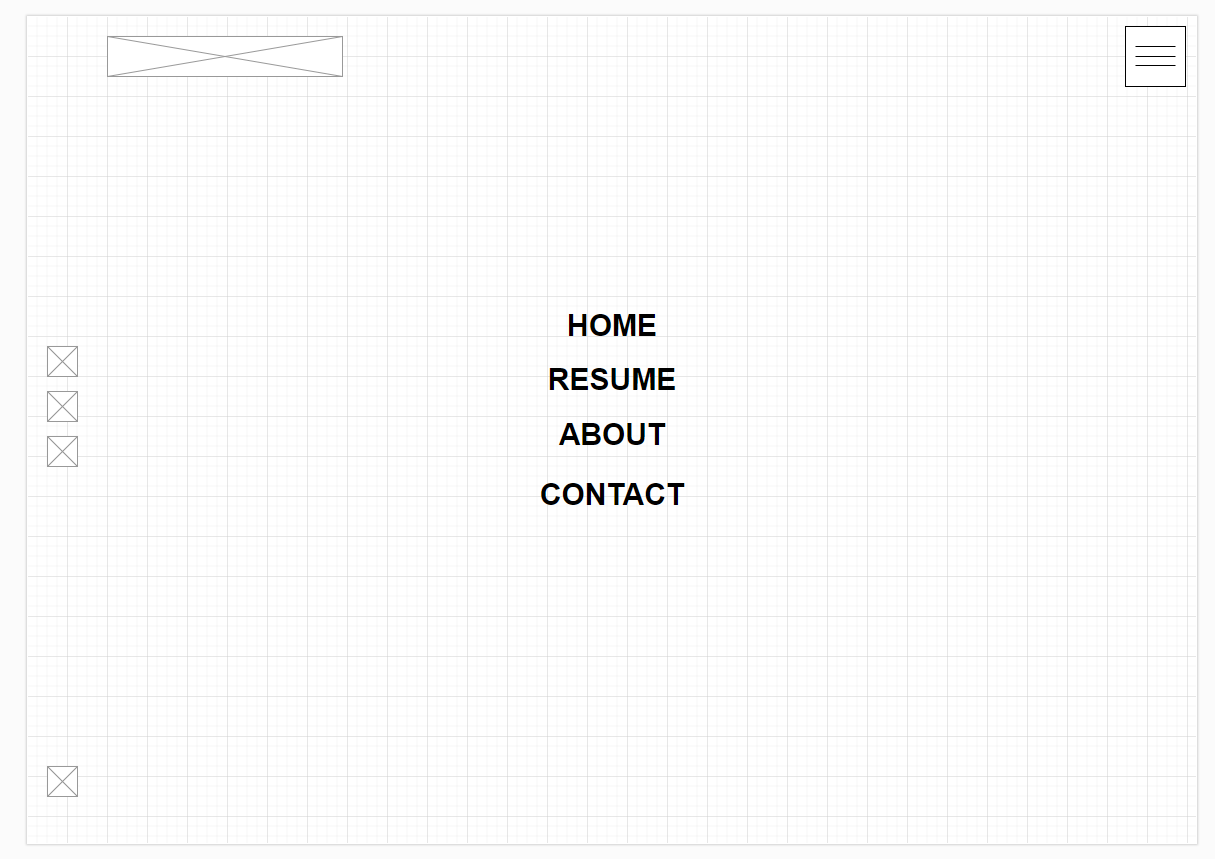
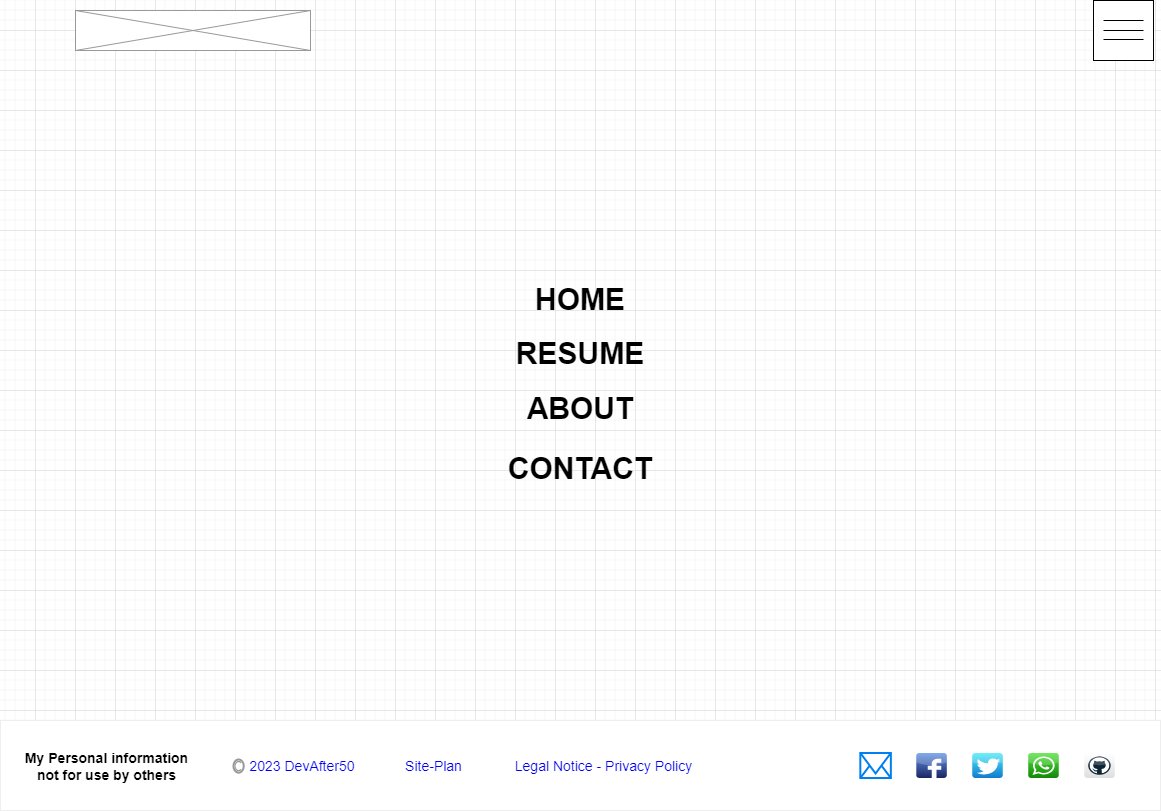
updated wireflrames

diff --git a/portfolio/site_plan.html b/portfolio/site_plan.html
@@ -321,29 +321,35 @@ Feel free to reach out via email at my9ija@gmail.com or give me a call at +23490
         Wireframes
       </h2>
       <p>
-        Created four wireframes for my site. One for each page and list them here</p>
+        Created five wireframes for my site. The concept for my personal site is a simple clean flat design. The site concept does not lay much emphasis on headers and footers except for the navigation page which has a footer. The navigation concept is based on the use of hamburger menus on all the pages which link to the navigation page when clicked, the use of the hamburger menu aligns with the site concept of being clean, simple and enables proper use of space. I created five wireframes, One for each page. </p>
 
       <h3>Home</h3>
       <p>         
-        [Any additional details about home that the wireframe does not make clear]
+        [Any additional details about 'home' that the wireframe does not make clear]
       </p>
       <img src="img/Home-page.png" alt="Home page wireframe">
 
+      <h3>Navigation</h3>
+      <p>         
+        [Any additional details about 'navigation' that the wireframe does not make clear]
+      </p>
+      <img src="img/Menu-Page.png" alt="Menu page wireframe">
+
       <h3>[Resume]</h3>
       <p>         
-        [Any additional details about page 2 that the wireframe does not make clear]
+        [Any additional details about 'resume' that the wireframe does not make clear]
       </p>
       <img src="img/resume-page.png" alt="Resume page wireframe">
 
       <h3>[About]</h3>
       <p>         
-        [Any additional details about page 3 that the wireframe does not make clear]
+        [Any additional details about 'about' that the wireframe does not make clear]
       </p>
       <img src="img/about-page.png" alt="About page wireframe">
 
       <h3>[Contact]</h3>
       <p>         
-        [Any additional details about page 3 that the wireframe does not make clear]
+        The contact page has external links to 1: book an appointment to have a video chat with me in my chat room (webrtc). 2: An external link to a contact form to send me an email. Also a map to display my current location using google maps api.
       </p>
       <img src="img/contact-page.png" alt="Contact page wireframe">
     </main>
